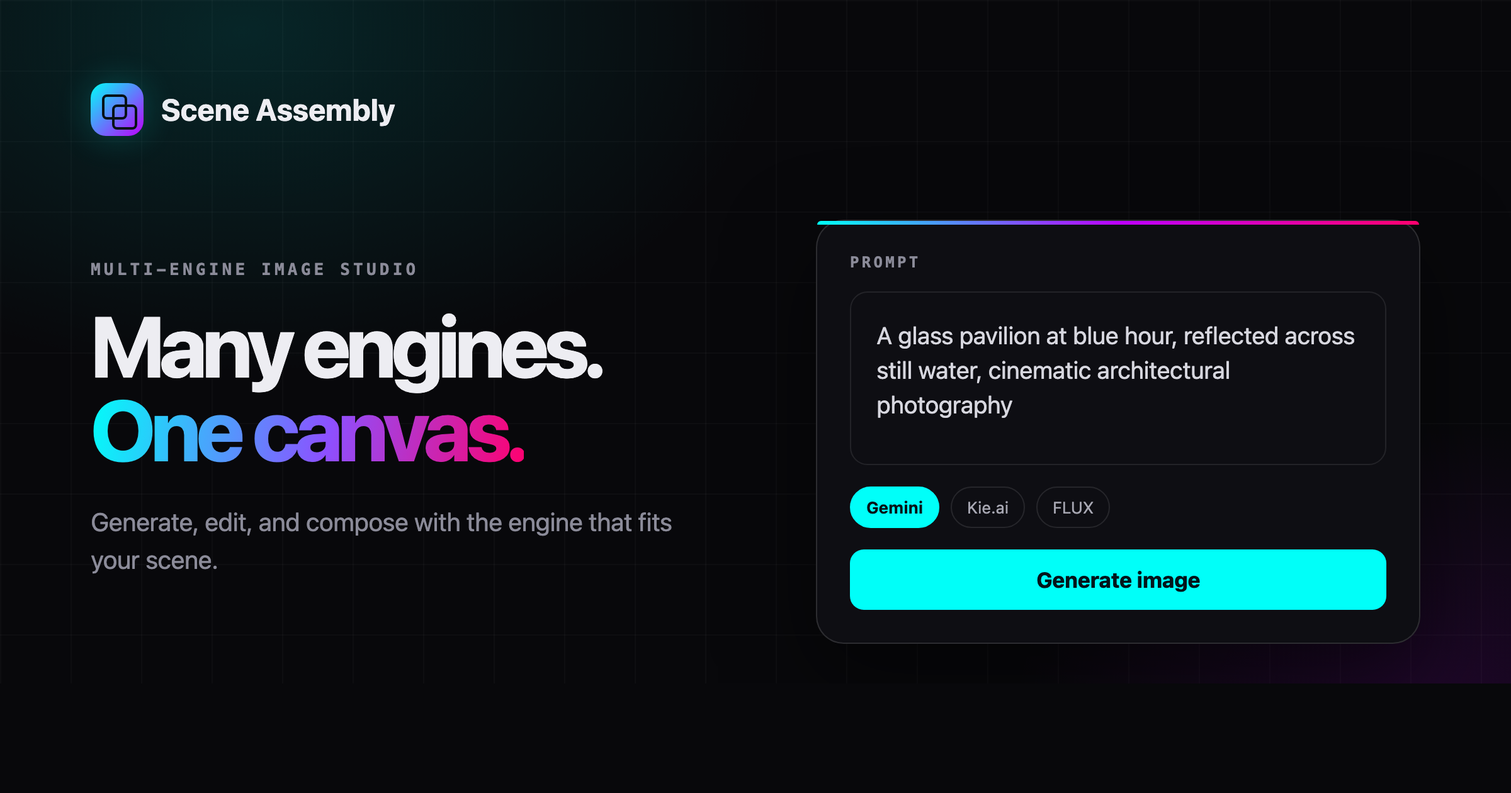
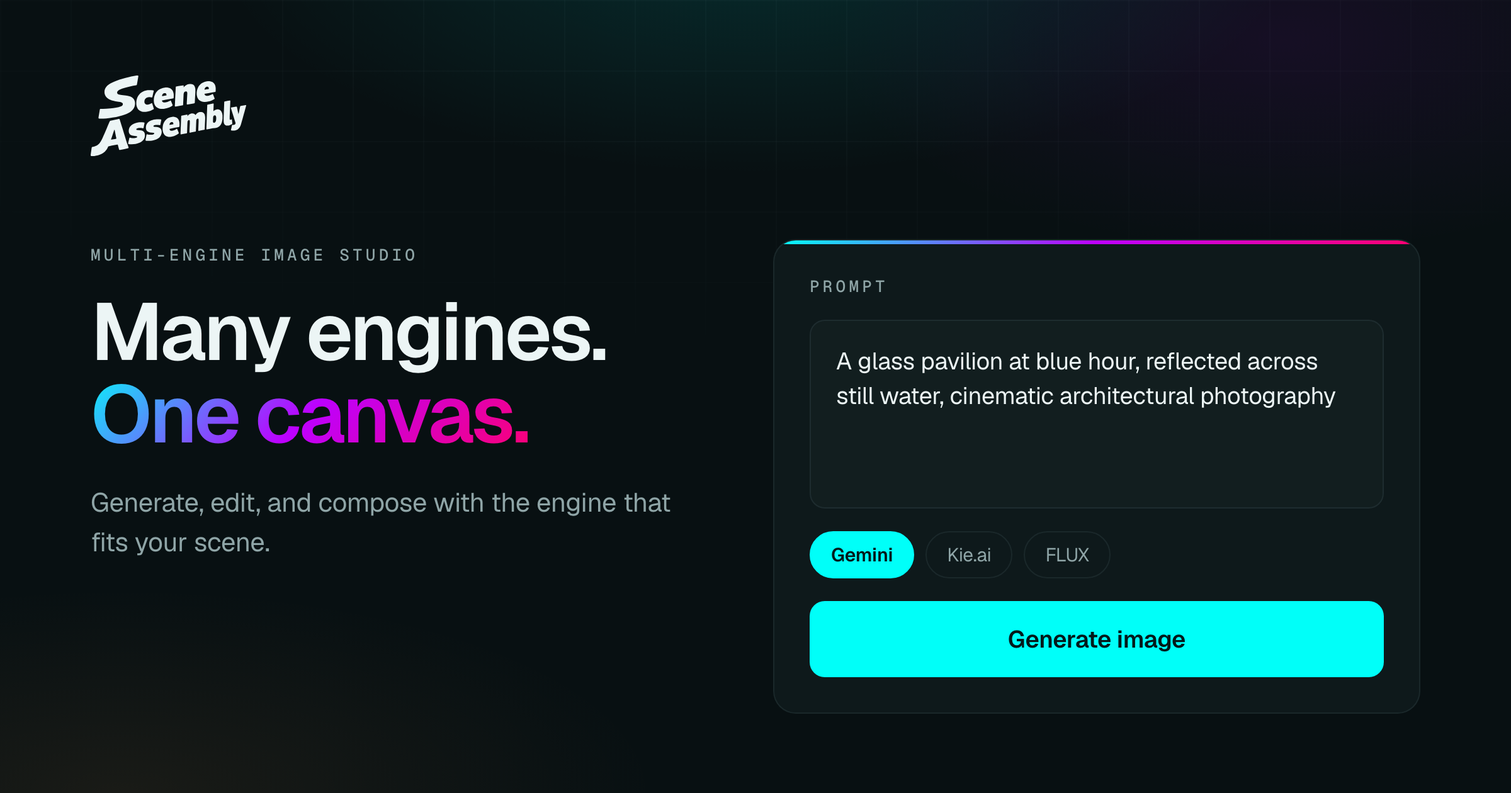
feat: adopt the Scene Assembly wordmark as the brand mark
Replaces the gradient tile and Lucide Layers glyph in the header with the
wordmark itself, which already says the product name — so the text name
next to it went too, and the h1 keeps sr-only text to hold the heading and
its accessible name. Sized to the 32/36px tile it replaces, so the header
bar height does not move.

BrandMark crops the source's 2508 square artboard down to the ink and fills
with currentColor. The source has a lot of empty margin, which is fine for a
file you hand to a printer and useless in a nav bar: uncropped, a 32px box
would render the letters at around 18px, floating.

Both social cards were rebuilt on the new mark. og.png was still the retired
"Nano Banana UI" identity; social-preview.png had the right name but the tile
lockup. Their sources sit in assets/brand/ so they can be regenerated rather
than re-drawn, and they pull --tint-hue, the ambient grid and the glow
verbatim from globals.css so the cards and the app stay one surface.

App icons are deliberately untouched: two lines of type smear below ~64px, so
the favicon needs a monogram cut rather than the wordmark.

diff --git a/assets/brand/social-preview.html b/assets/brand/social-preview.html
@@ -1,0 +1,96 @@
+<!doctype html><html><head><meta charset="utf-8">
+<link rel="preconnect" href="https://fonts.googleapis.com">
+<link rel="preconnect" href="https://fonts.gstatic.com" crossorigin>
+<link href="https://fonts.googleapis.com/css2?family=Geist:wght@400;500;600;700&family=Geist+Mono:wght@500&display=swap" rel="stylesheet">
+<style>
+  /* Same tokens as app/globals.css — see assets/brand/og-card.html. */
+  :root {
+    --tint-hue: 190;
+    --tint: var(--tint-hue) 60% 85%;
+    --background: hsl(var(--tint-hue) 38% 5%);
+    --background-elevated: hsl(var(--tint-hue) 32% 8%);
+    --foreground: #ecf5f5;
+    --foreground-muted: #8fa5a7;
+    --neon-cyan: #00fff9;
+    --neon-purple: #bd00ff;
+    --neon-pink: #ff006e;
+    --border: hsl(var(--tint) / 0.075);
+    --gradient-primary: linear-gradient(135deg, var(--neon-cyan) 0%, var(--neon-purple) 50%, var(--neon-pink) 100%);
+  }
+  * { margin: 0; padding: 0; box-sizing: border-box; }
+  html, body { width: 1200px; height: 630px; }
+  body {
+    background: var(--background); color: var(--foreground);
+    font-family: Geist, system-ui, sans-serif; letter-spacing: -0.011em;
+    -webkit-font-smoothing: antialiased; position: relative; overflow: hidden;
+  }
+  .grid, .glow { position: absolute; inset: 0; pointer-events: none; }
+  .grid {
+    background-image:
+      linear-gradient(hsl(var(--tint) / 0.022) 1px, transparent 1px),
+      linear-gradient(90deg, hsl(var(--tint) / 0.022) 1px, transparent 1px);
+    background-size: 56px 56px;
+    -webkit-mask-image: radial-gradient(ellipse 90% 60% at 50% 0%, #000 30%, transparent 75%);
+  }
+  .glow {
+    background:
+      radial-gradient(60% 50% at 50% -8%, rgba(0, 255, 249, 0.12), transparent 60%),
+      radial-gradient(50% 45% at 85% 5%, rgba(189, 0, 255, 0.08), transparent 60%),
+      radial-gradient(55% 40% at 8% 100%, rgba(255, 168, 84, 0.07), transparent 65%);
+  }
+  .stage { position: relative; z-index: 1; height: 100%; padding: 60px 72px 0; }
+
+  /* The lockup the header now uses: wordmark alone, no tile, no repeated name. */
+  svg.wordmark { height: 64px; width: auto; fill: var(--foreground); display: block; }
+
+  .cols { display: flex; gap: 56px; margin-top: 66px; }
+  .copy { width: 486px; padding-top: 4px; }
+  .eyebrow {
+    font-family: "Geist Mono", ui-monospace, monospace;
+    text-transform: uppercase; letter-spacing: 0.2em;
+    font-size: 13px; font-weight: 500; color: var(--foreground-muted);
+  }
+  h1 { font-size: 64px; font-weight: 600; line-height: 1.02; letter-spacing: -0.035em; margin: 20px 0 22px; }
+  .grad { background: var(--gradient-primary); -webkit-background-clip: text; background-clip: text; color: transparent; }
+  .sub { font-size: 21px; line-height: 1.5; color: var(--foreground-muted); }
+
+  /* Prompt card — the app's glass-card, with the gradient hairline on top. */
+  .card {
+    position: relative; flex: 1; align-self: flex-start;
+    background: var(--background-elevated); border: 1px solid var(--border);
+    border-radius: 18px; padding: 28px; overflow: hidden;
+  }
+  .card::before { content: ""; position: absolute; top: 0; left: 0; right: 0; height: 3px; background: var(--gradient-primary); }
+  .field {
+    margin-top: 18px; border: 1px solid var(--border); border-radius: 12px;
+    padding: 18px 20px; font-size: 19px; line-height: 1.45; color: var(--foreground);
+    background: hsl(var(--tint) / 0.02); min-height: 150px;
+  }
+  .row { display: flex; gap: 9px; margin-top: 18px; }
+  .chip { border: 1px solid var(--border); border-radius: 999px; padding: 8px 16px; font-size: 15px; color: var(--foreground-muted); }
+  .chip.on { background: var(--neon-cyan); border-color: var(--neon-cyan); color: #04191a; font-weight: 600; }
+  .cta {
+    margin-top: 18px; background: var(--neon-cyan); color: #04191a;
+    border-radius: 12px; padding: 18px; text-align: center; font-size: 19px; font-weight: 600;
+  }
+</style></head>
+<body>
+  <div class="grid"></div>
+  <div class="glow"></div>
+  <div class="stage">
+    <svg class="wordmark" viewBox="114 656 2302 1193" xmlns="http://www.w3.org/2000/svg"><path d="M849 1348h28l21 2 10 2 3 3v8l-7 35-7 36-2 3h-8l-15-3-9-1h-32l-14 2-14 4-8 5h-2l-2 5-1 6 2 4 7 3 22 2 24 2 19 3 15 5 13 7 12 12 7 12 4 13 2 15v18l-3 19-6 18-8 14-11 14-8 8-17 13-20 11-19 8-21 7-25 6-26 4-32 2-24-1-19-3-7-3-2-3 2-13 9-40 7-32 3-4 8 1 17 4 18 2h25l15-2 16-4 8-4 4-4 1-8-1-4-5-2-13-3-34-3-24-5-12-5-12-7-8-8-7-11-5-12-3-16v-18l2-14 4-14 7-16 8-12 9-10 4-5 14-11 20-12 27-11 25-7 21-4 16-2Zm244-45h36l24 3 5 2 1 2v8l-12 60-3 12-3 2-11-2-19-3h-28l-19 3-13 5-7 6v9l5 4 7 2 38 3 22 4 15 6 10 6 9 8 7 10 5 13 3 16v21l-3 16-5 16-7 14-10 14-7 8-11 9-11 8-15 9-16 7-30 10-29 6-22 3-17 1h-23l-20-2-9-2-4-5 1-10 7-36 7-36 3-6 1-1 8 1 11 3 12 2 12 1h22l17-2 15-4 8-5 4-5v-7l-1-3-9-3-49-5-17-4-15-6-12-9-8-9-7-14-4-18v-24l3-17 4-12 10-19 9-11 10-10 15-11 23-12 22-8 23-6 23-4Zm-563-3h8l5 4 10 33 18 57 17 55 19 62 11 36 16 53 9 29 11 33 11 29 8 22 2 7v7l-5 5-50 11-34 7-37 8h-9l-5-5-8-30-11-41-2-4h-7l-79 16-48 10-6 4-13 26-13 21-9 11-9 10-4 5-8 7-9 8-16 11-21 12-23 10-25 8-26 6-30 5-7 1h-38l-6-4-3-6 1-16 8-55 6-43 3-6 5-4 26-6 24-8 17-8 11-7 9-7 10-9 8-8 10-13 14-22 14-26 10-21 14-31 14-32 13-30 21-49 13-31 10-24 15-35 7-15 5-6 9-3 88-18Zm-65 160-3 4-15 45-12 36-11 33-8 22v5h8l59-11 10-3 1-1v-7l-6-26-17-85-2-10Zm865-193h12l21 3 15 5 14 8 12 11 9 13 8 16 5 18 3 22v40l-1 9-5 5-26 5-30 6-23 5-60 12-2 1v7l4 9 6 7 10 4 3 1h16l18-4 14-5 16-8 17-10 3-2 4 1 3 5 16 38 7 19-1 5-7 6-20 13-23 12-21 8-19 6-20 4-15 2h-26l-17-3-15-5-12-7-10-8-8-8-9-14-7-15-6-20-2-10-2-29 1-23 3-22 5-21 7-20 10-19 11-16 11-12 9-9 14-10 17-10 20-8 20-5 12-2Zm-20 79-10 4-8 6-6 9-4 12-1 8 2 2 10-1 42-8 4-3-1-11-4-9-5-6-6-3Zm425-150h18l14 3 13 7 10 9 9 13 5 14 4 23 1 12v19l-2 48-1 15-3 81-1 15-4 4-6 2-37 7-40 8-6-1-1-2v-29l4-102v-36l-3-7-3-3-2-1h-9l-6 3-5 5-4 8-2 10-3 67-3 77-1 15-2 5-61 12-20 4h-9l-2-2v-26l5-113v-31l-3-8-4-4-7-1-9 3-7 8-4 11-2 36-5 131-3 5-11 3-40 8-35 7-5-1-2-2v-20l3-79 4-111 2-54 1-7 5-4 73-14 10-1 4 4v17l5-3 9-11 9-8 12-8 16-6 9-2 17-1 12 2 12 5 8 6 9 10 4-1 8-11 7-8 11-9 16-9 17-5Zm672-102h7l2 2-1 9-12 46-11 40-11 39-10 37-7 24-10 36-8 28-7 25-8 21-8 16-10 15-9 10-11 10-13 8-11 5-13 4-17 3h-28l-15-2-4-2-1-7 10-44 6-26 3-4h18l12-2 9-4 4-5 3-3 3-8-1-10-9-28-18-58-10-32-10-32-16-52-5-17 2-5 4-2 67-11 4-1h9l3 3 7 34 6 31 6 25 1 1 2 16h2l2-14h2l1-8 8-38 9-43 3-13 4-4 7-2 56-9Zm-483-23h8l3 4-2 64-1 18v25h3l5-5 7-6 16-8 15-4 7-1h18l14 3 12 6 12 11 7 9 8 16 5 15 4 21 1 10v42l-3 27-6 27-7 20-9 17-8 11-9 10-10 9-13 8-15 7-18 5-15 3-33 1-42 9-39 8h-10l-2-3v-12l3-75 2-51 1-38 2-55 1-17 2-57 2-51 2-5 4-3 68-13Zm24 174-10 5-6 7-4 11-1 8-2 53v9l2 9 4 6 4 2h11l8-4 7-7 6-12 4-17 2-26-1-18-3-12-5-8-5-4-5-2Z"/><path d="M2171 1026h8l2 3v18l-6 146-3 72v38l3 6 2 1h11l10-5h5l2 4 6 52v10l-5 5-14 8-16 7-17 5-13 2h-16l-10-2-12-5-9-7-6-8-5-12-3-11-2-15v-50l2-59 5-139 1-31 1-14 5-5 43-8ZM967 872h44l22 3 12 3 3 3-1 10-7 27-7 31-6 27-2 4-2 1-9-1-15-3-12-1-22 2-16 5-13 7-10 9-8 10-6 15-2 9v20l4 13 6 8 7 6 9 4 10 2h14l20-4 17-6 18-10 3-2 5 1 3 7 12 39 9 29 2 6-1 6-5 4-16 9-21 10-20 7-20 6-21 4-17 2h-33l-19-3-17-5-16-8-13-9-13-13-10-15-8-18-5-17-3-16-1-10v-31l3-24 5-22 7-20 8-17 10-16 10-13 11-12 11-10 17-12 17-10 19-8 27-8 22-4Zm253-38h30l19 3 15 5 15 8 10 8 10 10 7 10 7 14 6 18 4 18 1 12v31l-2 20-4 4-33 6-43 7-39 7-34 6-17 3-1 1v9l4 8 9 8 11 4 8 1h12l14-2 21-5 21-9 17-9 7-4 5 1 4 8 9 22 11 27 3 8v7l-7 6-15 9-23 12-20 8-23 7-23 5-18 3-11 1h-30l-21-3-24-8-16-9-10-8-9-9-9-13-8-16-7-21-2-10-2-19v-23l2-22 5-23 7-22 8-18 11-18 7-9 9-11 13-12 14-10 17-10 23-10 20-6 26-5Zm-14 82-10 3-9 6-7 7-8 16-1 4v8l5 1 49-8 9-2 2-2v-12l-4-10-6-7-10-4Zm372-135h23l19 5 12 6 11 9 8 11 7 16 4 16 2 15v44l-5 89-3 62-2 10-3 3-16 3-70 12-16 3h-10l-2-2v-22l3-50 3-64 1-16v-20l-3-10-4-6-5-3-7-1-10 2-8 4-8 7-6 12-3 14-3 71-3 57-1 26-1 9-3 3-25 5-65 11-16 3h-10l-3-4 2-43 4-87 6-119 1-26 1-12 4-5 35-6 67-11h9l2 2v26l3-1 7-9 13-13 15-10 16-8 16-5Zm271-40h26l18 3 15 5 12 6 11 8 11 11 7 11 8 16 4 13 4 26v34l-2 21-2 4-66 11-35 6-59 10-1 1 1 9 5 10 10 7 10 3h23l19-4 20-7 17-8 14-8 4 1 3 5 17 44 6 15v6l-5 5-13 8-17 9-21 8-15 5-23 6-23 4-26 2h-11l-20-2-17-4-17-7-14-9-11-9-11-14-9-16-6-17-5-25-1-10v-23l2-20 4-20 5-17 10-24 9-15 9-12 9-10 11-11 15-11 19-11 20-8 15-5 20-4Zm-12 80-12 3-9 6-7 7-5 9-3 8-1 9 2 2 23-3 35-6 4-3v-7l-3-11-4-6-7-6-9-2ZM803 656h11l5 4 1 7-12 70-10 57-4 5-7 2-44 7-40 8-38 9-44 12-40 13-22 9-21 10-11 7-10 9-6 7-4 9-1 4v7l4 11 7 7 10 5 19 5 27 4 61 7 28 5 28 7 15 6 21 11 11 9 14 14 8 13 6 15 4 14 2 18v11l-2 20-5 21-9 21-9 15-13 16-14 14-17 13-15 10-22 12-19 9-31 12-36 12-52 13-37 8-51 9-41 6-53 6-42 3-24 1h-35l-9-2-4-4-1-3 1-15 11-64 8-50 4-5 2-1 44-1 46-2 60-5 43-5 44-7 35-7 20-6 15-6 13-7 6-5 6-8 2-5v-14l-3-6-5-5-5-4-11-5-18-5-21-4-44-7-38-8-20-6-22-8-16-8-14-8-10-8-10-9-7-7-10-14-9-17-6-19-2-11v-30l4-19 6-15 8-15 10-13 12-14 14-12 20-14 15-9 29-15 26-12 41-16 37-13 49-15 41-11 40-10 44-10 52-10 26-4Z"/></svg>
+    <div class="cols">
+      <div class="copy">
+        <p class="eyebrow">Multi-engine image studio</p>
+        <h1>Many engines.<br><span class="grad">One canvas.</span></h1>
+        <p class="sub">Generate, edit, and compose with the engine that fits your scene.</p>
+      </div>
+      <div class="card">
+        <p class="eyebrow">Prompt</p>
+        <div class="field">A glass pavilion at blue hour, reflected across still water, cinematic architectural photography</div>
+        <div class="row"><span class="chip on">Gemini</span><span class="chip">Kie.ai</span><span class="chip">FLUX</span></div>
+        <div class="cta">Generate image</div>
+      </div>
+    </div>
+  </div>
+</body></html>

diff --git a/assets/brand/og-card.html b/assets/brand/og-card.html
@@ -1,0 +1,93 @@
+<!doctype html><html><head><meta charset="utf-8">
+<link rel="preconnect" href="https://fonts.googleapis.com">
+<link rel="preconnect" href="https://fonts.gstatic.com" crossorigin>
+<link href="https://fonts.googleapis.com/css2?family=Geist:wght@400;500;600&family=Geist+Mono:wght@500&display=swap" rel="stylesheet">
+<style>
+  /* Tokens lifted verbatim from app/globals.css so the card and the app are
+     demonstrably the same surface, not two things that look similar. */
+  :root {
+    --tint-hue: 190;
+    --tint: var(--tint-hue) 60% 85%;
+    --background: hsl(var(--tint-hue) 38% 5%);
+    --foreground: #ecf5f5;
+    --foreground-muted: #8fa5a7;
+    --neon-cyan: #00fff9;
+    --neon-purple: #bd00ff;
+    --border: hsl(var(--tint) / 0.075);
+  }
+  * { margin: 0; padding: 0; box-sizing: border-box; }
+  html, body { width: 1200px; height: 630px; }
+  body {
+    background: var(--background);
+    color: var(--foreground);
+    font-family: Geist, system-ui, sans-serif;
+    letter-spacing: -0.011em;
+    -webkit-font-smoothing: antialiased;
+    position: relative;
+    overflow: hidden;
+  }
+  /* The app's ambient grid and glow, same values, same masks. */
+  .grid, .glow { position: absolute; inset: 0; pointer-events: none; }
+  .grid {
+    background-image:
+      linear-gradient(hsl(var(--tint) / 0.022) 1px, transparent 1px),
+      linear-gradient(90deg, hsl(var(--tint) / 0.022) 1px, transparent 1px);
+    background-size: 56px 56px;
+    -webkit-mask-image: radial-gradient(ellipse 90% 60% at 50% 0%, #000 30%, transparent 75%);
+  }
+  .glow {
+    background:
+      radial-gradient(60% 50% at 50% -8%, rgba(0, 255, 249, 0.12), transparent 60%),
+      radial-gradient(50% 45% at 85% 5%, rgba(189, 0, 255, 0.08), transparent 60%),
+      radial-gradient(55% 40% at 8% 100%, rgba(255, 168, 84, 0.07), transparent 65%);
+  }
+  /* The wordmark is 1.93:1 and the card is 1.90:1, so the mark can run nearly
+     the full width and still leave room for a line of type above and below.
+     Sized off the frame (vw/vh) rather than a fixed px height, so the whole
+     composition scales together if the card is ever rendered at another size. */
+  .stage {
+    position: relative; z-index: 1;
+    height: 100%;
+    display: flex; flex-direction: column;
+    align-items: center; justify-content: center;
+    gap: 34px;
+    padding: 46px 52px;
+  }
+  .mark-wrap { position: relative; display: flex; }
+  /* A soft cyan bloom sits behind the wordmark only — it lifts the mark off the
+     grid without turning the whole card into a glow. */
+  .mark-wrap::before {
+    content: ""; position: absolute; inset: -80px -120px;
+    background: radial-gradient(50% 50% at 50% 50%, rgba(0, 255, 249, 0.16), transparent 70%);
+  }
+  svg.wordmark { position: relative; width: 820px; height: auto; fill: var(--foreground); display: block; }
+  .eyebrow {
+    font-family: "Geist Mono", ui-monospace, monospace;
+    text-transform: uppercase; letter-spacing: 0.22em;
+    font-size: 17px; font-weight: 500; color: var(--foreground-muted);
+  }
+  .pills { display: flex; gap: 12px; }
+  .pill {
+    border: 1px solid var(--border); border-radius: 999px;
+    padding: 11px 24px; font-size: 18px; font-weight: 500;
+    color: var(--foreground-muted);
+    background: hsl(var(--tint) / 0.02);
+  }
+</style></head>
+<body>
+  <div class="grid"></div>
+  <div class="glow"></div>
+  <div class="stage">
+    <p class="eyebrow">Multi-engine image &amp; video studio</p>
+    <div class="mark-wrap">
+      <svg class="wordmark" viewBox="114 656 2302 1193" xmlns="http://www.w3.org/2000/svg"><path d="M849 1348h28l21 2 10 2 3 3v8l-7 35-7 36-2 3h-8l-15-3-9-1h-32l-14 2-14 4-8 5h-2l-2 5-1 6 2 4 7 3 22 2 24 2 19 3 15 5 13 7 12 12 7 12 4 13 2 15v18l-3 19-6 18-8 14-11 14-8 8-17 13-20 11-19 8-21 7-25 6-26 4-32 2-24-1-19-3-7-3-2-3 2-13 9-40 7-32 3-4 8 1 17 4 18 2h25l15-2 16-4 8-4 4-4 1-8-1-4-5-2-13-3-34-3-24-5-12-5-12-7-8-8-7-11-5-12-3-16v-18l2-14 4-14 7-16 8-12 9-10 4-5 14-11 20-12 27-11 25-7 21-4 16-2Zm244-45h36l24 3 5 2 1 2v8l-12 60-3 12-3 2-11-2-19-3h-28l-19 3-13 5-7 6v9l5 4 7 2 38 3 22 4 15 6 10 6 9 8 7 10 5 13 3 16v21l-3 16-5 16-7 14-10 14-7 8-11 9-11 8-15 9-16 7-30 10-29 6-22 3-17 1h-23l-20-2-9-2-4-5 1-10 7-36 7-36 3-6 1-1 8 1 11 3 12 2 12 1h22l17-2 15-4 8-5 4-5v-7l-1-3-9-3-49-5-17-4-15-6-12-9-8-9-7-14-4-18v-24l3-17 4-12 10-19 9-11 10-10 15-11 23-12 22-8 23-6 23-4Zm-563-3h8l5 4 10 33 18 57 17 55 19 62 11 36 16 53 9 29 11 33 11 29 8 22 2 7v7l-5 5-50 11-34 7-37 8h-9l-5-5-8-30-11-41-2-4h-7l-79 16-48 10-6 4-13 26-13 21-9 11-9 10-4 5-8 7-9 8-16 11-21 12-23 10-25 8-26 6-30 5-7 1h-38l-6-4-3-6 1-16 8-55 6-43 3-6 5-4 26-6 24-8 17-8 11-7 9-7 10-9 8-8 10-13 14-22 14-26 10-21 14-31 14-32 13-30 21-49 13-31 10-24 15-35 7-15 5-6 9-3 88-18Zm-65 160-3 4-15 45-12 36-11 33-8 22v5h8l59-11 10-3 1-1v-7l-6-26-17-85-2-10Zm865-193h12l21 3 15 5 14 8 12 11 9 13 8 16 5 18 3 22v40l-1 9-5 5-26 5-30 6-23 5-60 12-2 1v7l4 9 6 7 10 4 3 1h16l18-4 14-5 16-8 17-10 3-2 4 1 3 5 16 38 7 19-1 5-7 6-20 13-23 12-21 8-19 6-20 4-15 2h-26l-17-3-15-5-12-7-10-8-8-8-9-14-7-15-6-20-2-10-2-29 1-23 3-22 5-21 7-20 10-19 11-16 11-12 9-9 14-10 17-10 20-8 20-5 12-2Zm-20 79-10 4-8 6-6 9-4 12-1 8 2 2 10-1 42-8 4-3-1-11-4-9-5-6-6-3Zm425-150h18l14 3 13 7 10 9 9 13 5 14 4 23 1 12v19l-2 48-1 15-3 81-1 15-4 4-6 2-37 7-40 8-6-1-1-2v-29l4-102v-36l-3-7-3-3-2-1h-9l-6 3-5 5-4 8-2 10-3 67-3 77-1 15-2 5-61 12-20 4h-9l-2-2v-26l5-113v-31l-3-8-4-4-7-1-9 3-7 8-4 11-2 36-5 131-3 5-11 3-40 8-35 7-5-1-2-2v-20l3-79 4-111 2-54 1-7 5-4 73-14 10-1 4 4v17l5-3 9-11 9-8 12-8 16-6 9-2 17-1 12 2 12 5 8 6 9 10 4-1 8-11 7-8 11-9 16-9 17-5Zm672-102h7l2 2-1 9-12 46-11 40-11 39-10 37-7 24-10 36-8 28-7 25-8 21-8 16-10 15-9 10-11 10-13 8-11 5-13 4-17 3h-28l-15-2-4-2-1-7 10-44 6-26 3-4h18l12-2 9-4 4-5 3-3 3-8-1-10-9-28-18-58-10-32-10-32-16-52-5-17 2-5 4-2 67-11 4-1h9l3 3 7 34 6 31 6 25 1 1 2 16h2l2-14h2l1-8 8-38 9-43 3-13 4-4 7-2 56-9Zm-483-23h8l3 4-2 64-1 18v25h3l5-5 7-6 16-8 15-4 7-1h18l14 3 12 6 12 11 7 9 8 16 5 15 4 21 1 10v42l-3 27-6 27-7 20-9 17-8 11-9 10-10 9-13 8-15 7-18 5-15 3-33 1-42 9-39 8h-10l-2-3v-12l3-75 2-51 1-38 2-55 1-17 2-57 2-51 2-5 4-3 68-13Zm24 174-10 5-6 7-4 11-1 8-2 53v9l2 9 4 6 4 2h11l8-4 7-7 6-12 4-17 2-26-1-18-3-12-5-8-5-4-5-2Z"/><path d="M2171 1026h8l2 3v18l-6 146-3 72v38l3 6 2 1h11l10-5h5l2 4 6 52v10l-5 5-14 8-16 7-17 5-13 2h-16l-10-2-12-5-9-7-6-8-5-12-3-11-2-15v-50l2-59 5-139 1-31 1-14 5-5 43-8ZM967 872h44l22 3 12 3 3 3-1 10-7 27-7 31-6 27-2 4-2 1-9-1-15-3-12-1-22 2-16 5-13 7-10 9-8 10-6 15-2 9v20l4 13 6 8 7 6 9 4 10 2h14l20-4 17-6 18-10 3-2 5 1 3 7 12 39 9 29 2 6-1 6-5 4-16 9-21 10-20 7-20 6-21 4-17 2h-33l-19-3-17-5-16-8-13-9-13-13-10-15-8-18-5-17-3-16-1-10v-31l3-24 5-22 7-20 8-17 10-16 10-13 11-12 11-10 17-12 17-10 19-8 27-8 22-4Zm253-38h30l19 3 15 5 15 8 10 8 10 10 7 10 7 14 6 18 4 18 1 12v31l-2 20-4 4-33 6-43 7-39 7-34 6-17 3-1 1v9l4 8 9 8 11 4 8 1h12l14-2 21-5 21-9 17-9 7-4 5 1 4 8 9 22 11 27 3 8v7l-7 6-15 9-23 12-20 8-23 7-23 5-18 3-11 1h-30l-21-3-24-8-16-9-10-8-9-9-9-13-8-16-7-21-2-10-2-19v-23l2-22 5-23 7-22 8-18 11-18 7-9 9-11 13-12 14-10 17-10 23-10 20-6 26-5Zm-14 82-10 3-9 6-7 7-8 16-1 4v8l5 1 49-8 9-2 2-2v-12l-4-10-6-7-10-4Zm372-135h23l19 5 12 6 11 9 8 11 7 16 4 16 2 15v44l-5 89-3 62-2 10-3 3-16 3-70 12-16 3h-10l-2-2v-22l3-50 3-64 1-16v-20l-3-10-4-6-5-3-7-1-10 2-8 4-8 7-6 12-3 14-3 71-3 57-1 26-1 9-3 3-25 5-65 11-16 3h-10l-3-4 2-43 4-87 6-119 1-26 1-12 4-5 35-6 67-11h9l2 2v26l3-1 7-9 13-13 15-10 16-8 16-5Zm271-40h26l18 3 15 5 12 6 11 8 11 11 7 11 8 16 4 13 4 26v34l-2 21-2 4-66 11-35 6-59 10-1 1 1 9 5 10 10 7 10 3h23l19-4 20-7 17-8 14-8 4 1 3 5 17 44 6 15v6l-5 5-13 8-17 9-21 8-15 5-23 6-23 4-26 2h-11l-20-2-17-4-17-7-14-9-11-9-11-14-9-16-6-17-5-25-1-10v-23l2-20 4-20 5-17 10-24 9-15 9-12 9-10 11-11 15-11 19-11 20-8 15-5 20-4Zm-12 80-12 3-9 6-7 7-5 9-3 8-1 9 2 2 23-3 35-6 4-3v-7l-3-11-4-6-7-6-9-2ZM803 656h11l5 4 1 7-12 70-10 57-4 5-7 2-44 7-40 8-38 9-44 12-40 13-22 9-21 10-11 7-10 9-6 7-4 9-1 4v7l4 11 7 7 10 5 19 5 27 4 61 7 28 5 28 7 15 6 21 11 11 9 14 14 8 13 6 15 4 14 2 18v11l-2 20-5 21-9 21-9 15-13 16-14 14-17 13-15 10-22 12-19 9-31 12-36 12-52 13-37 8-51 9-41 6-53 6-42 3-24 1h-35l-9-2-4-4-1-3 1-15 11-64 8-50 4-5 2-1 44-1 46-2 60-5 43-5 44-7 35-7 20-6 15-6 13-7 6-5 6-8 2-5v-14l-3-6-5-5-5-4-11-5-18-5-21-4-44-7-38-8-20-6-22-8-16-8-14-8-10-8-10-9-7-7-10-14-9-17-6-19-2-11v-30l4-19 6-15 8-15 10-13 12-14 14-12 20-14 15-9 29-15 26-12 41-16 37-13 49-15 41-11 40-10 44-10 52-10 26-4Z"/></svg>
+    </div>
+    <div class="pills">
+      <span class="pill">Gemini</span>
+      <span class="pill">FLUX</span>
+      <span class="pill">Veo</span>
+      <span class="pill">Kling</span>
+      <span class="pill">Seedance</span>
+    </div>
+  </div>
+</body></html>

diff --git a/components/BrandMark.tsx b/components/BrandMark.tsx
@@ -1,0 +1,51 @@
+// components/BrandMark.tsx
+import type { SVGProps } from 'react';
+
+/**
+ * Scene Assembly's wordmark, traced from assets/sa-logo-1.svg.
+ *
+ * The source file draws the logo inside a square 2508 artboard with a lot of
+ * empty margin, which is fine for a file you hand to a printer and useless in
+ * a nav bar: sized to a 32px box the letters would come out around 18px tall
+ * and float in the middle of it. The mark below therefore keeps the source
+ * coordinates untouched and just crops the viewBox to the ink, so a caller sets
+ * a height and gets exactly that much wordmark.
+ *
+ * Fills are currentColor, never the source's black — the app's surfaces are
+ * near-black, so the mark has to take its colour from whatever it sits in.
+ */
+
+/** Ink-tight crop around the two-line wordmark. Aspect ratio ~1.93:1. */
+export const WORDMARK_VIEW_BOX = '114 656 2302 1193';
+
+export const WORDMARK_PATHS = [
+  'M849 1348h28l21 2 10 2 3 3v8l-7 35-7 36-2 3h-8l-15-3-9-1h-32l-14 2-14 4-8 5h-2l-2 5-1 6 2 4 7 3 22 2 24 2 19 3 15 5 13 7 12 12 7 12 4 13 2 15v18l-3 19-6 18-8 14-11 14-8 8-17 13-20 11-19 8-21 7-25 6-26 4-32 2-24-1-19-3-7-3-2-3 2-13 9-40 7-32 3-4 8 1 17 4 18 2h25l15-2 16-4 8-4 4-4 1-8-1-4-5-2-13-3-34-3-24-5-12-5-12-7-8-8-7-11-5-12-3-16v-18l2-14 4-14 7-16 8-12 9-10 4-5 14-11 20-12 27-11 25-7 21-4 16-2Zm244-45h36l24 3 5 2 1 2v8l-12 60-3 12-3 2-11-2-19-3h-28l-19 3-13 5-7 6v9l5 4 7 2 38 3 22 4 15 6 10 6 9 8 7 10 5 13 3 16v21l-3 16-5 16-7 14-10 14-7 8-11 9-11 8-15 9-16 7-30 10-29 6-22 3-17 1h-23l-20-2-9-2-4-5 1-10 7-36 7-36 3-6 1-1 8 1 11 3 12 2 12 1h22l17-2 15-4 8-5 4-5v-7l-1-3-9-3-49-5-17-4-15-6-12-9-8-9-7-14-4-18v-24l3-17 4-12 10-19 9-11 10-10 15-11 23-12 22-8 23-6 23-4Zm-563-3h8l5 4 10 33 18 57 17 55 19 62 11 36 16 53 9 29 11 33 11 29 8 22 2 7v7l-5 5-50 11-34 7-37 8h-9l-5-5-8-30-11-41-2-4h-7l-79 16-48 10-6 4-13 26-13 21-9 11-9 10-4 5-8 7-9 8-16 11-21 12-23 10-25 8-26 6-30 5-7 1h-38l-6-4-3-6 1-16 8-55 6-43 3-6 5-4 26-6 24-8 17-8 11-7 9-7 10-9 8-8 10-13 14-22 14-26 10-21 14-31 14-32 13-30 21-49 13-31 10-24 15-35 7-15 5-6 9-3 88-18Zm-65 160-3 4-15 45-12 36-11 33-8 22v5h8l59-11 10-3 1-1v-7l-6-26-17-85-2-10Zm865-193h12l21 3 15 5 14 8 12 11 9 13 8 16 5 18 3 22v40l-1 9-5 5-26 5-30 6-23 5-60 12-2 1v7l4 9 6 7 10 4 3 1h16l18-4 14-5 16-8 17-10 3-2 4 1 3 5 16 38 7 19-1 5-7 6-20 13-23 12-21 8-19 6-20 4-15 2h-26l-17-3-15-5-12-7-10-8-8-8-9-14-7-15-6-20-2-10-2-29 1-23 3-22 5-21 7-20 10-19 11-16 11-12 9-9 14-10 17-10 20-8 20-5 12-2Zm-20 79-10 4-8 6-6 9-4 12-1 8 2 2 10-1 42-8 4-3-1-11-4-9-5-6-6-3Zm425-150h18l14 3 13 7 10 9 9 13 5 14 4 23 1 12v19l-2 48-1 15-3 81-1 15-4 4-6 2-37 7-40 8-6-1-1-2v-29l4-102v-36l-3-7-3-3-2-1h-9l-6 3-5 5-4 8-2 10-3 67-3 77-1 15-2 5-61 12-20 4h-9l-2-2v-26l5-113v-31l-3-8-4-4-7-1-9 3-7 8-4 11-2 36-5 131-3 5-11 3-40 8-35 7-5-1-2-2v-20l3-79 4-111 2-54 1-7 5-4 73-14 10-1 4 4v17l5-3 9-11 9-8 12-8 16-6 9-2 17-1 12 2 12 5 8 6 9 10 4-1 8-11 7-8 11-9 16-9 17-5Zm672-102h7l2 2-1 9-12 46-11 40-11 39-10 37-7 24-10 36-8 28-7 25-8 21-8 16-10 15-9 10-11 10-13 8-11 5-13 4-17 3h-28l-15-2-4-2-1-7 10-44 6-26 3-4h18l12-2 9-4 4-5 3-3 3-8-1-10-9-28-18-58-10-32-10-32-16-52-5-17 2-5 4-2 67-11 4-1h9l3 3 7 34 6 31 6 25 1 1 2 16h2l2-14h2l1-8 8-38 9-43 3-13 4-4 7-2 56-9Zm-483-23h8l3 4-2 64-1 18v25h3l5-5 7-6 16-8 15-4 7-1h18l14 3 12 6 12 11 7 9 8 16 5 15 4 21 1 10v42l-3 27-6 27-7 20-9 17-8 11-9 10-10 9-13 8-15 7-18 5-15 3-33 1-42 9-39 8h-10l-2-3v-12l3-75 2-51 1-38 2-55 1-17 2-57 2-51 2-5 4-3 68-13Zm24 174-10 5-6 7-4 11-1 8-2 53v9l2 9 4 6 4 2h11l8-4 7-7 6-12 4-17 2-26-1-18-3-12-5-8-5-4-5-2Z',
+  'M2171 1026h8l2 3v18l-6 146-3 72v38l3 6 2 1h11l10-5h5l2 4 6 52v10l-5 5-14 8-16 7-17 5-13 2h-16l-10-2-12-5-9-7-6-8-5-12-3-11-2-15v-50l2-59 5-139 1-31 1-14 5-5 43-8ZM967 872h44l22 3 12 3 3 3-1 10-7 27-7 31-6 27-2 4-2 1-9-1-15-3-12-1-22 2-16 5-13 7-10 9-8 10-6 15-2 9v20l4 13 6 8 7 6 9 4 10 2h14l20-4 17-6 18-10 3-2 5 1 3 7 12 39 9 29 2 6-1 6-5 4-16 9-21 10-20 7-20 6-21 4-17 2h-33l-19-3-17-5-16-8-13-9-13-13-10-15-8-18-5-17-3-16-1-10v-31l3-24 5-22 7-20 8-17 10-16 10-13 11-12 11-10 17-12 17-10 19-8 27-8 22-4Zm253-38h30l19 3 15 5 15 8 10 8 10 10 7 10 7 14 6 18 4 18 1 12v31l-2 20-4 4-33 6-43 7-39 7-34 6-17 3-1 1v9l4 8 9 8 11 4 8 1h12l14-2 21-5 21-9 17-9 7-4 5 1 4 8 9 22 11 27 3 8v7l-7 6-15 9-23 12-20 8-23 7-23 5-18 3-11 1h-30l-21-3-24-8-16-9-10-8-9-9-9-13-8-16-7-21-2-10-2-19v-23l2-22 5-23 7-22 8-18 11-18 7-9 9-11 13-12 14-10 17-10 23-10 20-6 26-5Zm-14 82-10 3-9 6-7 7-8 16-1 4v8l5 1 49-8 9-2 2-2v-12l-4-10-6-7-10-4Zm372-135h23l19 5 12 6 11 9 8 11 7 16 4 16 2 15v44l-5 89-3 62-2 10-3 3-16 3-70 12-16 3h-10l-2-2v-22l3-50 3-64 1-16v-20l-3-10-4-6-5-3-7-1-10 2-8 4-8 7-6 12-3 14-3 71-3 57-1 26-1 9-3 3-25 5-65 11-16 3h-10l-3-4 2-43 4-87 6-119 1-26 1-12 4-5 35-6 67-11h9l2 2v26l3-1 7-9 13-13 15-10 16-8 16-5Zm271-40h26l18 3 15 5 12 6 11 8 11 11 7 11 8 16 4 13 4 26v34l-2 21-2 4-66 11-35 6-59 10-1 1 1 9 5 10 10 7 10 3h23l19-4 20-7 17-8 14-8 4 1 3 5 17 44 6 15v6l-5 5-13 8-17 9-21 8-15 5-23 6-23 4-26 2h-11l-20-2-17-4-17-7-14-9-11-9-11-14-9-16-6-17-5-25-1-10v-23l2-20 4-20 5-17 10-24 9-15 9-12 9-10 11-11 15-11 19-11 20-8 15-5 20-4Zm-12 80-12 3-9 6-7 7-5 9-3 8-1 9 2 2 23-3 35-6 4-3v-7l-3-11-4-6-7-6-9-2ZM803 656h11l5 4 1 7-12 70-10 57-4 5-7 2-44 7-40 8-38 9-44 12-40 13-22 9-21 10-11 7-10 9-6 7-4 9-1 4v7l4 11 7 7 10 5 19 5 27 4 61 7 28 5 28 7 15 6 21 11 11 9 14 14 8 13 6 15 4 14 2 18v11l-2 20-5 21-9 21-9 15-13 16-14 14-17 13-15 10-22 12-19 9-31 12-36 12-52 13-37 8-51 9-41 6-53 6-42 3-24 1h-35l-9-2-4-4-1-3 1-15 11-64 8-50 4-5 2-1 44-1 46-2 60-5 43-5 44-7 35-7 20-6 15-6 13-7 6-5 6-8 2-5v-14l-3-6-5-5-5-4-11-5-18-5-21-4-44-7-38-8-20-6-22-8-16-8-14-8-10-8-10-9-7-7-10-14-9-17-6-19-2-11v-30l4-19 6-15 8-15 10-13 12-14 14-12 20-14 15-9 29-15 26-12 41-16 37-13 49-15 41-11 40-10 44-10 52-10 26-4Z',
+] as const;
+
+type MarkProps = Omit<SVGProps<SVGSVGElement>, 'viewBox' | 'children'> & {
+  /**
+   * Accessible name. Omit it wherever the mark sits inside something already
+   * named — a link with an aria-label, a heading with sr-only text — so screen
+   * readers hear the name once instead of twice.
+   */
+  title?: string;
+};
+
+function markA11y(title: string | undefined) {
+  return title
+    ? ({ role: 'img' as const, 'aria-label': title })
+    : ({ 'aria-hidden': true, focusable: false as const });
+}
+
+/** The full two-line "Scene Assembly" lockup. */
+export function BrandWordmark({ title, ...props }: MarkProps) {
+  return (
+    <svg viewBox={WORDMARK_VIEW_BOX} fill="currentColor" {...markA11y(title)} {...props}>
+      {WORDMARK_PATHS.map((d) => (
+        <path key={d.slice(0, 16)} d={d} />
+      ))}
+    </svg>
+  );
+}
+

diff --git a/app/page.tsx b/app/page.tsx
@@ -6,12 +6,13 @@ import dynamic from 'next/dynamic';
 import Link from 'next/link';
 import { useQueryState } from 'nuqs';
 import { motion, AnimatePresence } from 'framer-motion';
-import { Key, Check, Command as CommandIcon, Layers, Library as LibraryIcon, Film } from 'lucide-react';
+import { Key, Check, Command as CommandIcon, Library as LibraryIcon, Film } from 'lucide-react';
 import ApiKeyConfig from '@/components/ApiKeyConfig';
 import LibraryOverlay from '@/components/LibraryOverlay';
 import { usePromptLibraryStore } from '@/store/usePromptLibraryStore';
 import FeatureSelector from '@/components/FeatureSelector';
 import ProviderLogo from '@/components/ProviderLogo';
+import { BrandWordmark } from '@/components/BrandMark';
 import { ENGINE_DOCS } from '@/lib/engines/docs';
 import { CommandPalette } from '@/components/CommandPalette';
 import VideoWorkspace from '@/components/VideoWorkspace';
@@ -106,16 +107,12 @@ function Studio() {
                 animate={{ opacity: 1, y: 0 }}
                 className="brand-mark flex items-center gap-2.5 min-w-0"
               >
-                <div className="brand-mark-icon w-8 h-8 sm:w-9 sm:h-9 rounded-lg bg-gradient-to-br from-[var(--neon-cyan)] to-[var(--neon-purple)] flex items-center justify-center flex-shrink-0 shadow-[0_2px_12px_-2px_rgba(0,245,255,0.35)]">
-                  <Layers className="w-4 h-4 sm:w-[18px] sm:h-[18px] text-black" aria-hidden />
-                </div>
-                <div className="min-w-0 flex items-center gap-2.5">
-                  <h1 className="display text-base sm:text-lg font-semibold text-[var(--foreground)] truncate">
-                    {brand.name}
-                  </h1>
-                  <span className="hidden md:inline-block h-3.5 w-px bg-[var(--border-hover)]" />
-                  <span className="hidden md:inline eyebrow">{brand.tagline}</span>
-                </div>
+                <h1 className="flex min-w-0">
+                  <span className="sr-only">{brand.name}</span>
+                  <BrandWordmark className="h-8 w-auto flex-shrink-0 text-[var(--foreground)] sm:h-9" />
+                </h1>
+                <span className="hidden md:inline-block h-3.5 w-px bg-[var(--border-hover)]" />
+                <span className="hidden md:inline eyebrow">{brand.tagline}</span>
               </motion.div>
             </Link>
 
